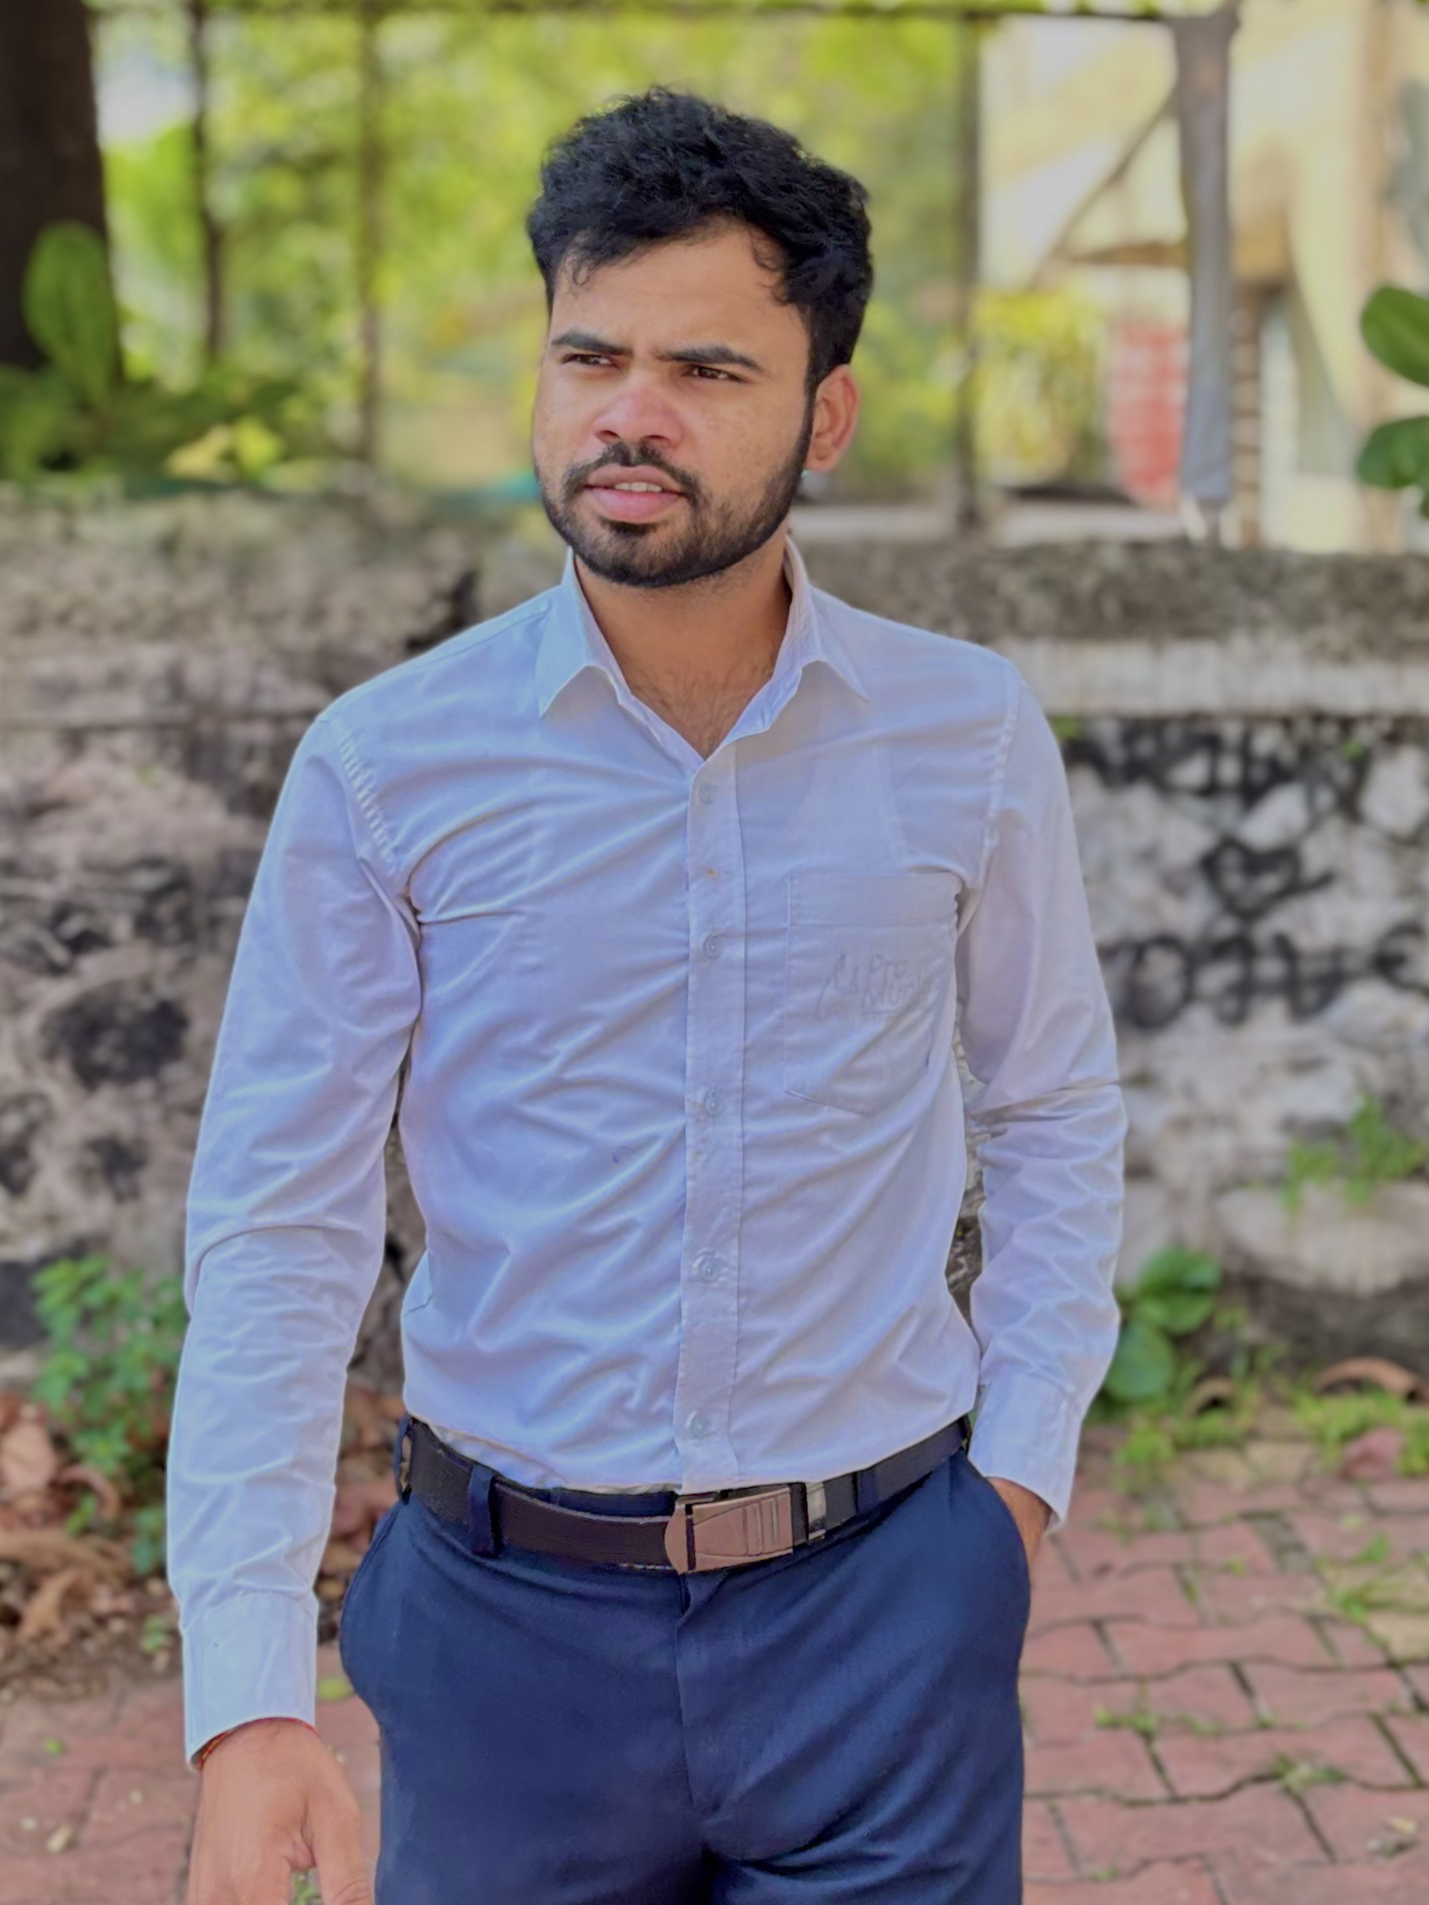
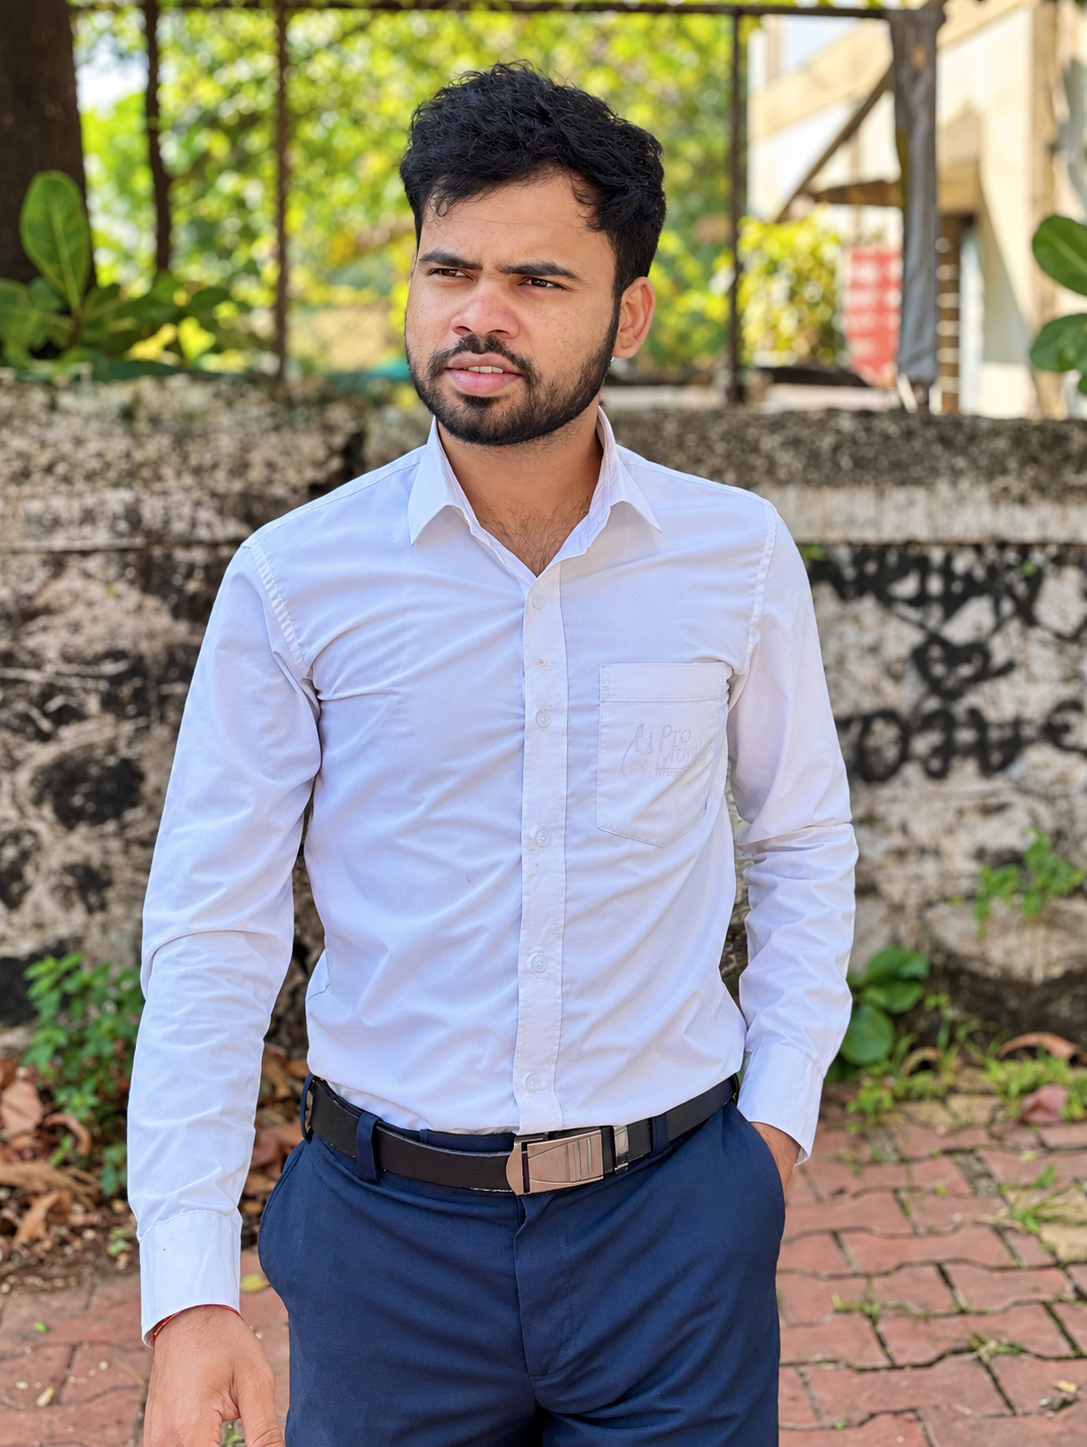
Remove light mode and make dark mode permanent

diff --git a/src/components/Navbar.tsx b/src/components/Navbar.tsx
@@ -20,7 +20,7 @@ const navItems = [
   { label: 'Contact', to: '/contact' },
 ]
 
-export function Navbar({ theme, onToggleTheme }: { theme: Theme; onToggleTheme: () => void }) {
+export function Navbar({  }: { onToggleTheme: () => void }) {
   const [open, setOpen] = useState(false)
   const [scrolled, setScrolled] = useState(false)
   const socialLinks = useContent<SocialLinks>('social.json', defaultSocialLinks)
@@ -48,9 +48,6 @@ export function Navbar({ theme, onToggleTheme }: { theme: Theme; onToggleTheme: 
       <nav className="mx-auto flex max-w-6xl items-center justify-between px-6 py-4">
         <Link to="/" className="flex items-center gap-2.5" aria-label="OmmiStacks home">
           <BrandMark />
-          <span className="font-[var(--font-display)] text-lg font-semibold text-[var(--text-primary)]">
-            Ommi<span style={{ color: 'var(--ommi-word)' }}>Stacks</span>
-          </span>
         </Link>
 
         <ul className="hidden items-center gap-7 lg:flex">
@@ -67,14 +64,12 @@ export function Navbar({ theme, onToggleTheme }: { theme: Theme; onToggleTheme: 
           <SocialButton href={socialLinks.github} label="GitHub" icon={<GithubIcon size={16} />} />
           <SocialButton href={socialLinks.linkedin} label="LinkedIn" icon={<LinkedinIcon size={16} />} />
           <SocialButton href={socialLinks.youtube} label="YouTube" icon={<YoutubeIcon size={16} />} />
-          <ThemeToggle theme={theme} onToggle={onToggleTheme} />
           <Button as="a" href="#/projects" variant="primary">
             Explore Projects
           </Button>
         </div>
 
         <div className="flex items-center gap-3 lg:hidden">
-          <ThemeToggle theme={theme} onToggle={onToggleTheme} />
           <button
             type="button"
             aria-label={open ? 'Close menu' : 'Open menu'}

diff --git a/src/index.css b/src/index.css
@@ -6,34 +6,26 @@
   --font-body: 'IBM Plex Sans', ui-sans-serif, system-ui, sans-serif;
   --font-mono: 'IBM Plex Mono', ui-monospace, monospace;
 
-  /* Palette pulled from the OmmiStacks mark: mint/teal-green ring + blue ring. */
+  /* OmmiStacks brand colors */
   --color-ommi-yellow: #22e0a6;
   --color-ommi-blue: #0057ff;
   --color-ommi-blue-light: #22b8ff;
 }
 
+/* Permanent Dark Theme */
 :root {
   color-scheme: dark;
-  --bg: #090c11;
-  --bg-elevated: #10151d;
-  --bg-elevated-2: #161c26;
-  --border: #232b38;
-  --text-primary: #edeff2;
-  --text-secondary: #aab2c0;
-  --text-muted: #6c7686;
-  --ommi-word: #2be6a4;
-}
 
-:root[data-theme='light'] {
-  color-scheme: light;
-  --bg: #f6f7f9;
-  --bg-elevated: #ffffff;
-  --bg-elevated-2: #eef0f3;
-  --border: #dfe3e9;
-  --text-primary: #10151d;
-  --text-secondary: #454f5f;
-  --text-muted: #71798a;
-  --ommi-word: #0057ff;
+  --bg: #0a0d12;
+  --bg-elevated: #11161d;
+  --bg-elevated-2: #181e27;
+  --border: #252c36;
+
+  --text-primary: #f5f7fa;
+  --text-secondary: #aeb7c4;
+  --text-muted: #737d8c;
+
+  --ommi-word: #22e0a6;
 }
 
 * {
@@ -42,6 +34,7 @@
 
 html {
   scroll-behavior: smooth;
+  color-scheme: dark;
 }
 
 body {
@@ -49,12 +42,14 @@ body {
   color: var(--text-primary);
   font-family: var(--font-body);
   -webkit-font-smoothing: antialiased;
+  margin: 0;
 }
 
 @media (prefers-reduced-motion: reduce) {
   html {
     scroll-behavior: auto;
   }
+
   *,
   *::before,
   *::after {

diff --git a/src/hooks/useTheme.ts b/src/hooks/useTheme.ts
@@ -1,26 +1,14 @@
-import { useCallback, useEffect, useState } from 'react'
+import { useEffect } from 'react'
 
-export type Theme = 'dark' | 'light'
-const STORAGE_KEY = 'ommistacks-theme'
-
-function getInitialTheme(): Theme {
-  if (typeof window === 'undefined') return 'dark'
-  const stored = window.localStorage.getItem(STORAGE_KEY)
-  if (stored === 'dark' || stored === 'light') return stored
-  return window.matchMedia('(prefers-color-scheme: light)').matches ? 'light' : 'dark'
-}
+export type Theme = 'dark'
 
 export function useTheme() {
-  const [theme, setTheme] = useState<Theme>(getInitialTheme)
-
   useEffect(() => {
-    document.documentElement.setAttribute('data-theme', theme)
-    window.localStorage.setItem(STORAGE_KEY, theme)
-  }, [theme])
-
-  const toggleTheme = useCallback(() => {
-    setTheme((prev) => (prev === 'dark' ? 'light' : 'dark'))
+    document.documentElement.setAttribute('data-theme', 'dark')
   }, [])
 
-  return { theme, toggleTheme }
+  return {
+    theme: 'dark' as const,
+    toggleTheme: () => {},
+  }
 }

diff --git a/vite.config.ts b/vite.config.ts
@@ -7,7 +7,7 @@ import tailwindcss from '@tailwindcss/vite'
 // For a GitHub Pages *project* site (https://<user>.github.io/<repo>/) this
 // should be "/<repo>/". For a *user/organization* site
 // (https://<user>.github.io/) it should be "/".
-const base = process.env.VITE_BASE_PATH || '/ommistacks/'
+const base = process.env.VITE_BASE_PATH || '/OmmiStacks/'
 
 export default defineConfig({
   base,

diff --git a/src/data/experience.ts b/src/data/experience.ts
@@ -8,7 +8,7 @@ export interface Experience {
 
 export const experience: Experience[] = [
   {
-    role: 'Backend Software Developer',
+    role: 'Software Developer',
     location: 'Pune, India',
     period: '3+ years',
     focus: ['Java', 'Spring Boot', 'Microservices', 'Fintech'],

diff --git a/src/components/BrandMark.tsx b/src/components/BrandMark.tsx
@@ -1,6 +1,6 @@
 import brandIcon from '../assets/brand-icon.png'
 
-export function BrandMark({ size = 30 }: { size?: number }) {
+export function BrandMark({ size = 80 }: { size?: number }) {
   return (
     <img
       src={brandIcon}
